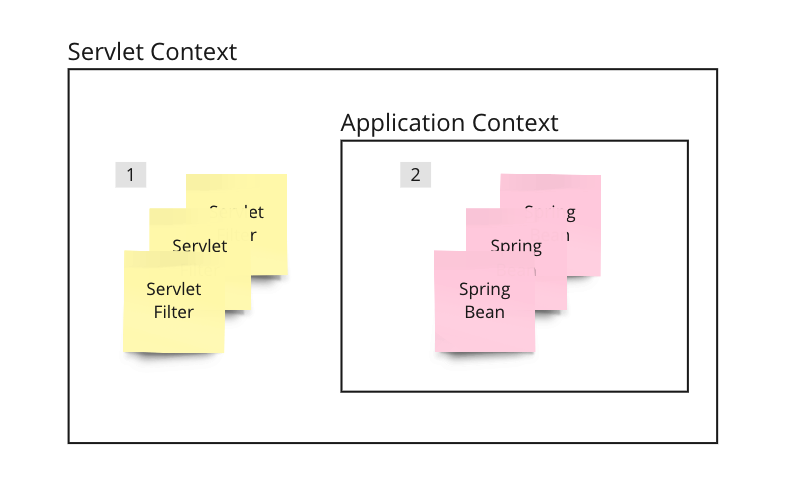
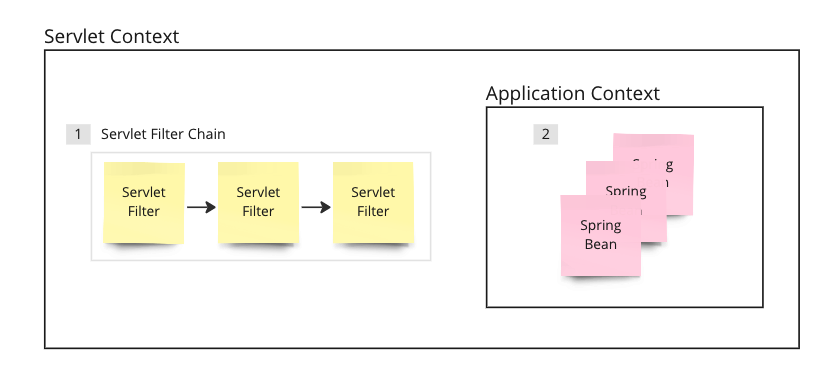
Add Servlet Filter Chain Image in DelegatingFilterProxy

Changed region(s): [[0.0309, 0.062, 0.9877, 0.9302]]

diff --git a/_posts/2023-10-08-delegating-filter-proxy.md b/_posts/2023-10-08-delegating-filter-proxy.md
@@ -28,7 +28,7 @@ last_modified_at: 2023-10-08T23:55:00
     * 어플리케이션 컨텍스트를 준비하는 과정에서 스프링 빈들이 생성됩니다.
 
 <p align="center">
-    <img src="/images/delegating-filter-proxy-1.JPG" width="80%" class="image__border">
+    <img src="/images/delegating-filter-proxy-1.JPG" width="100%" class="image__border">
 </p>
 
 ### 1.1. DelegatingFilterProxy Class